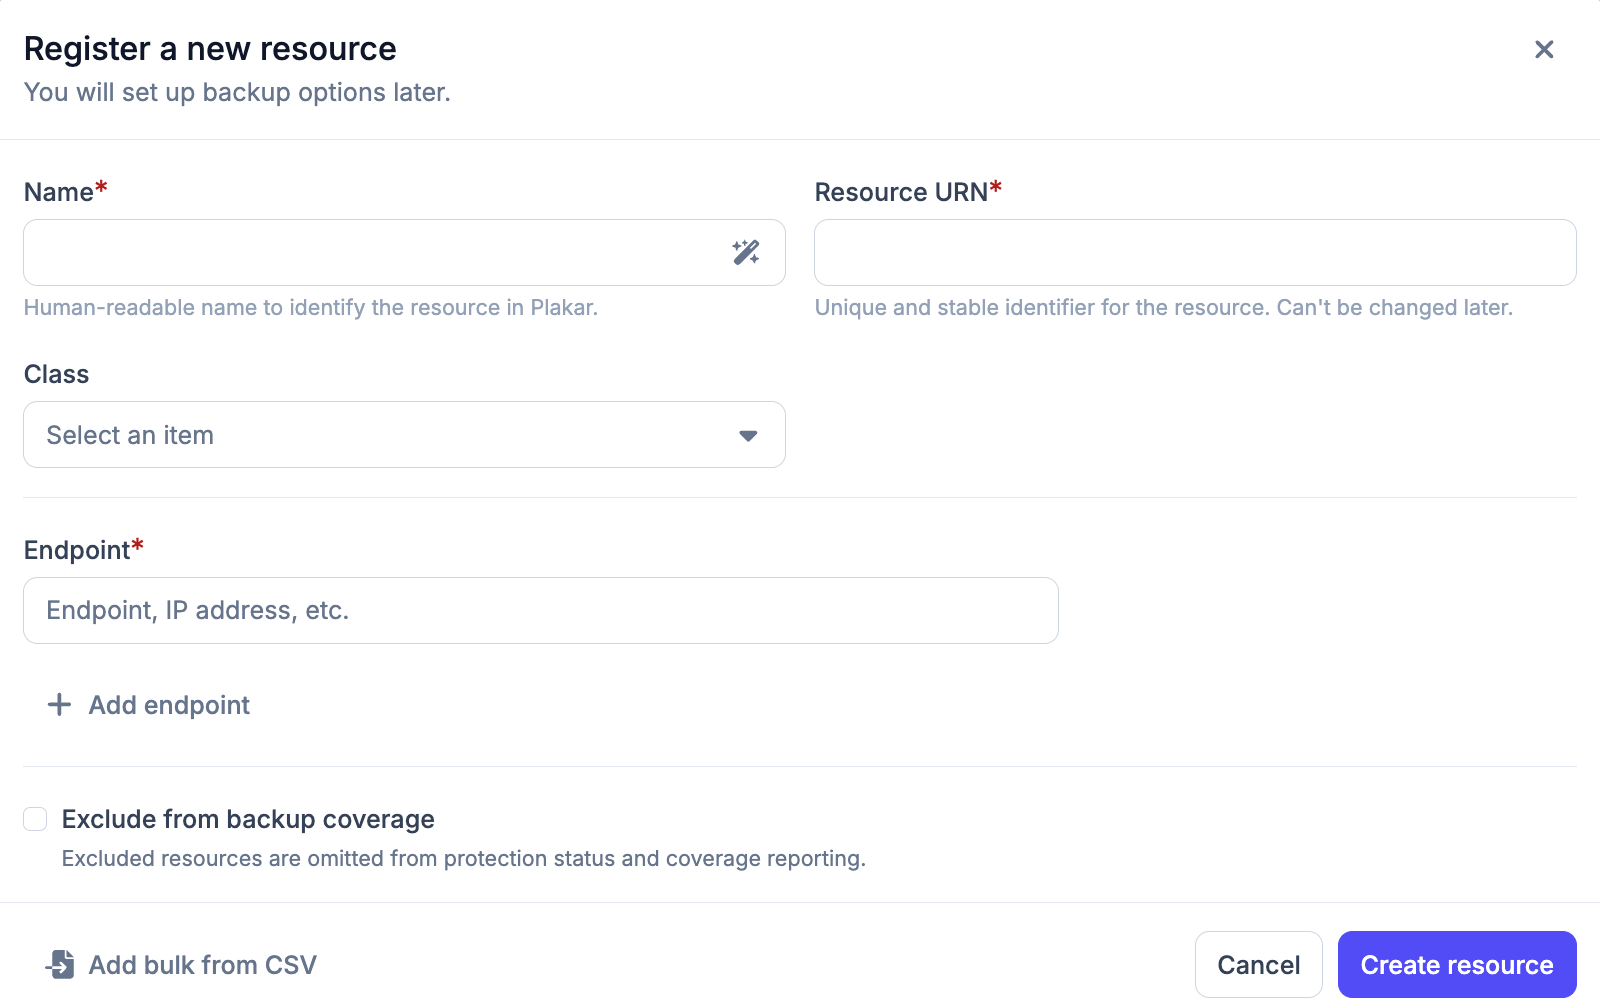
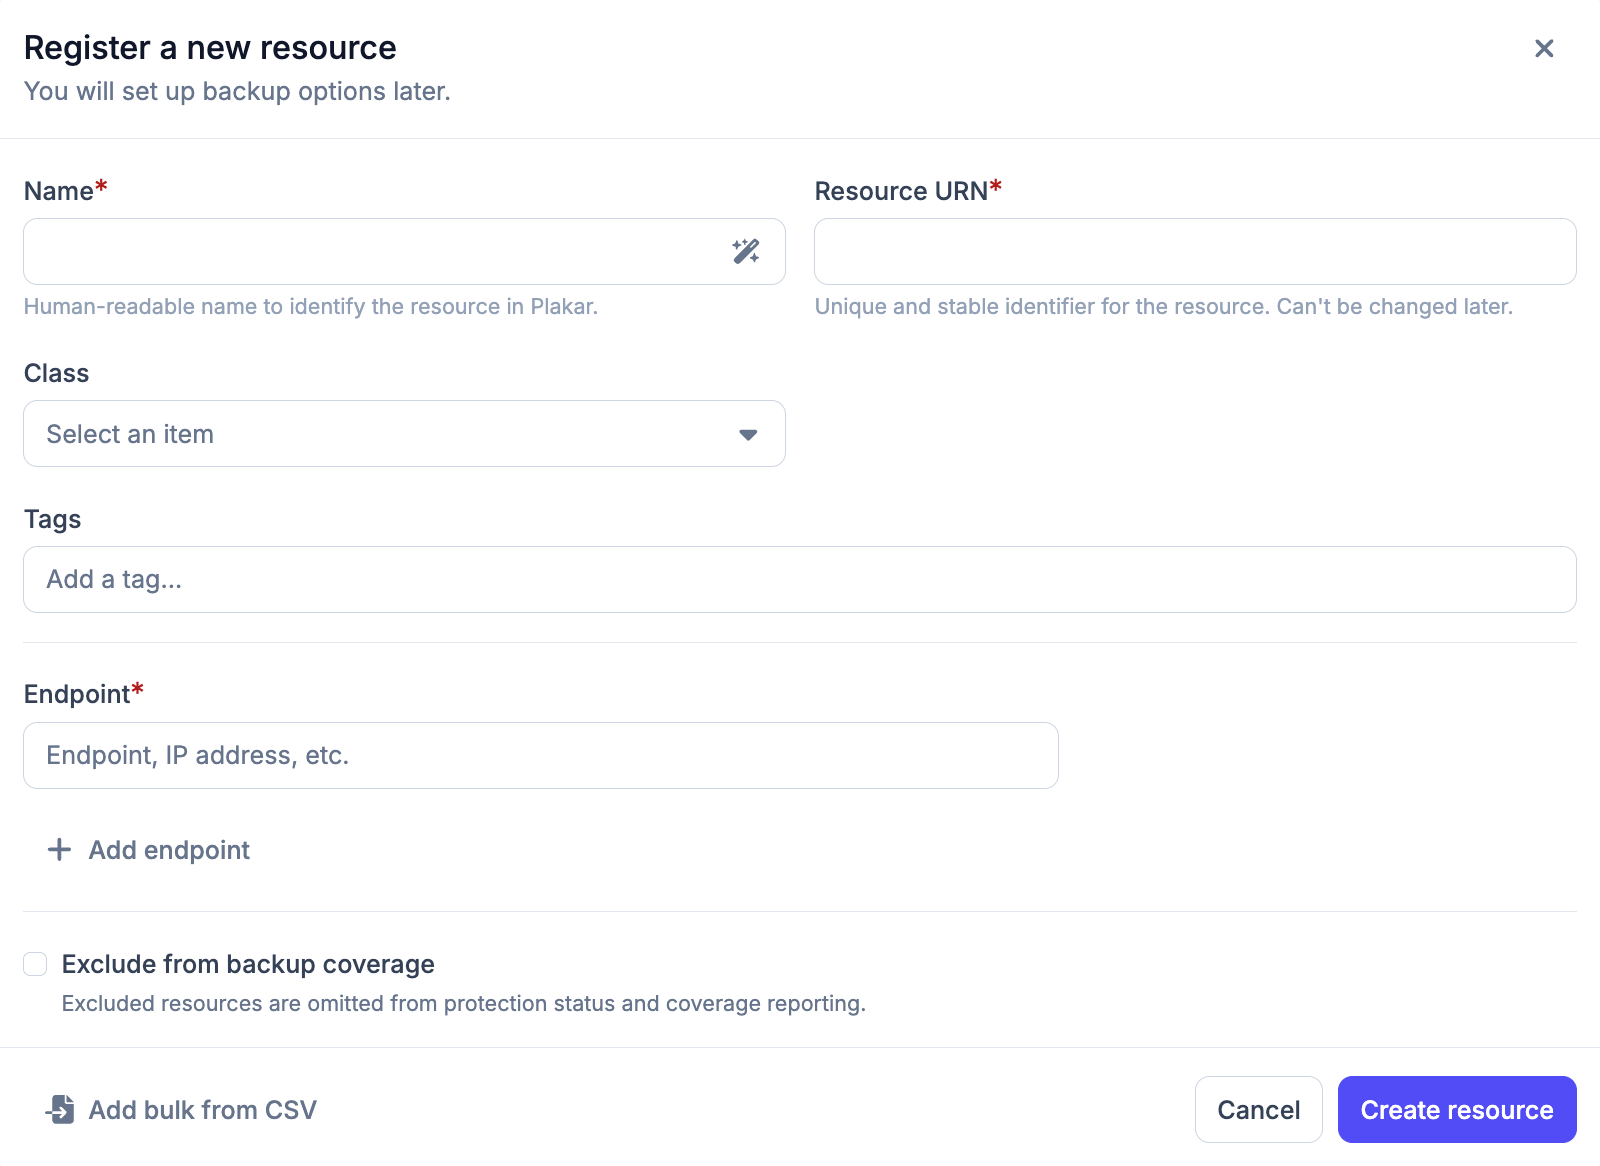
add support for tags on resources

diff --git a/content/docs/control-plane/infrastructure/inventories/self-managed.md b/content/docs/control-plane/infrastructure/inventories/self-managed.md
@@ -39,6 +39,8 @@ When adding a resource manually, you need to provide:
   for the full list
 - **Subclass** - a more specific type within the class. See
   [Resource classes](#resource-classes)
+- **Tags** - provide several tags to the resource. Can be later used by
+  [policies](../../operations/policies) to filter resources
 - **Hostname** - the address used to reach the resource (hostname or IP
   address). A resource can have multiple hostnames.
 - **Exclude from backup coverage** - optionally exclude the resource from backup